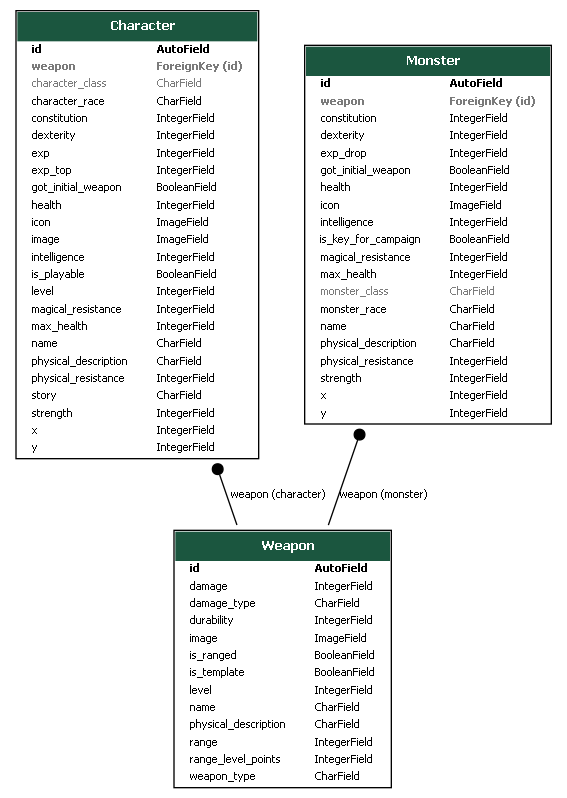
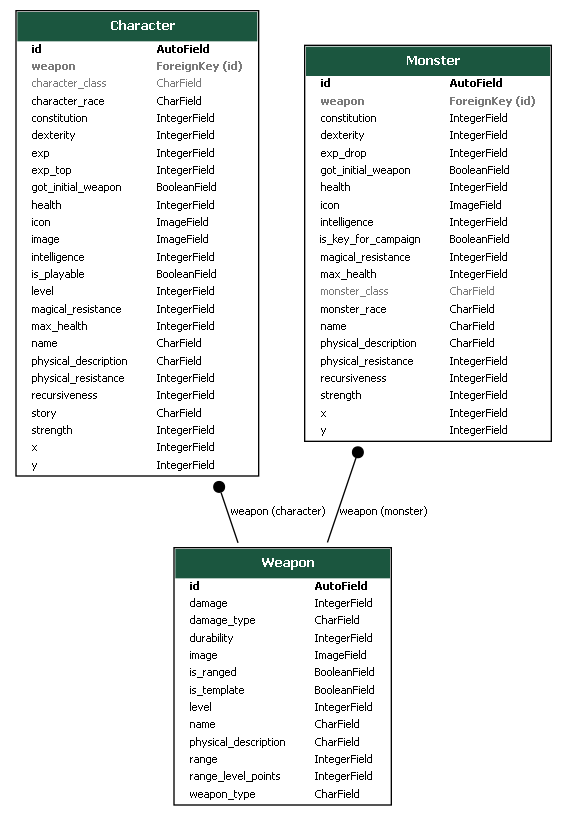
Full combat system made in functions.py

Changed region(s): [[0.03, 0.0, 0.9894, 0.9925], [0.9295, 0.0902, 0.9594, 0.1203]]

diff --git a/DnD_AI/functions.py b/DnD_AI/functions.py
@@ -6,24 +6,138 @@ def roll_dice():
     return randint(1, 20)
 
 
-# no está listo
-def attack(attacker:Character|Monster, objective:Character|Monster, dice:int):
+# BEEEEEEEEEEEEEEEEEEEEEEEEEEEEEEEETA, Just simulating btw
+def level_up_option(level:int) -> str:
+    '''# THIS OPTION WILL BE MADE IN FRONT BY COCK, PROBABLY, I'M JUST SIMULATING IT. CHANGE FULL_COMBAT() WHEN IT'S DONE. 
+    
+    just returns 'stats' or 'weapon' '''
+
+    menu = f'''Duuuuude, wha du u waaaant, u are now level {level} omggg 
+    1. Subir las stats bro
+    2. Tirar facha modificando mi arma uwu
+
+    -> '''
+    print(menu)
+
+    opcion = input().lower()
+    if opcion not in ['stats', 'weapon']:
+        print('pero qué te pasa ome, mera deforme nea')
+        return level_up_option(level)
+    else:
+        print('waos')
+        return opcion
+
+
+
+def attack(attacker:Character|Monster, objective:Character|Monster, attacker_dice:int = roll_dice()) -> dict:
+    '''### The attack function will calculate the result of an attack from an attacker to an objective. Any of them can be a character or a monster\n
+    The attack will be calculated based on the attacker's attack stats, weapon damage, weapon damage type and the objective's defense. The intensity varies depending on the dice result, the higher the result, the higher the damage.\n
+    If the dice result is 20, the attack will be a CRITICAL HIT, doubling the damage. \n
+    returns a dictionary with the attack, the damage dealt, a boolean indicating if the objective was killed and a boolean indicating if the hit was critic.'''
+
+
+    # Each plus point in the stats will increase the damage by 10% of the base damage
     if attacker.weapon.damage_type == 'Physical':
-        attack = attacker.strength + attacker.weapon.damage
+        attack = attacker.weapon.damage + int((attacker.weapon.damage*0.1)*attacker.strength)
         defense = objective.physical_resistance
     elif attacker.weapon.damage_type == 'Magical': 
-        attack = attacker.intelligence + attacker.weapon.damage
+        attack = attacker.weapon.damage + int((attacker.weapon.damage*0.1)*attacker.intelligence)
         defense = objective.magical_resistance
-    else:
-        attack = attacker.intelligence + attacker.weapon.damage
+    else: # the attacker damage will be calculated as item damage
+        attack = attacker.weapon.damage + int((attacker.weapon.damage*0.1)*attacker.recursiveness)
         defense = objective.constitution
+
+    # The damage will be calculated as the difference between the attack and the defense, multiplied by the dice result
+    # The dice result will be used to calculate the damage, the higher the result, the higher the damage
+    # a dice result of 20 will double the damage, that's a CRITICAL HIT!
+    damage_dealt = int((attack - defense)*(attacker_dice/20)) if attacker_dice != 20 else (attack - defense)*2
+    objective.health -= damage_dealt
+
+    objective_killed = False
+    if objective.health < 0:
+        objective.kill()
+        objective_killed = True
+
+    was_critical_hit = True if attacker_dice == 20 else False
+
+    return {'attack': attack, 'damage_dealt': damage_dealt, 'objective_killed': objective_killed, 'was_critical_hit': was_critical_hit}
     
 
+# The combat function will calculate the result of a combat_turn between a player and a monster
+def combat_turn(player:Character, monster:Monster, player_dice:int = roll_dice(), monster_dice:int = roll_dice()) -> dict[dict, dict]:
+    '''### The combat function will calculate the result of a combat between a player and a monster, both attacking (if the first attacked doesn't dies).\n
+    The one with the highest dexterity will attack first. If the dexterity is the same, the dice result will be used to determine the first attack. If they're also the same, the order will be random. \n
+    Calls to the attack function to calculate the damage dealt by the player and the monster. \n
+    Returns a dictionary with player and monster dead status, and also two dictionaries: one for the player's attack results and another for the monster's attack results. \n
 
-# no está listo
-def combat(character:Character, monster:Monster, character_dice:int, monster_dice:int = roll_dice()) -> None:
-    monster_attack = monster.strength
-    if character.dexterity > monster.dexterity:
+    Keys valid for the returned dictionary:
+    - 'player_died'
+    - 'monster_died'
+    - 'player_result'
+    - 'monster_result'\n
     
-        monster_attack = monster.strength
-        character.health -= 1
+    Keys valid for 'player_results' and 'monster_results' dictionaries: 
+    - 'attack'
+    - 'damage_dealt'
+    - 'objective_killed'
+    - 'was_critical_hit'\n
+    '''
+
+    if player.dexterity > monster.dexterity:
+        first = 'player'
+    elif player.dexterity < monster.dexterity:
+        first = 'monster'
+    else:  # they have the same dexterity
+        if player_dice > monster_dice:
+            first = 'player'
+        elif player_dice < monster_dice:
+            first = 'monster'
+        else: # damn, they have the same dexterity and the same dice result XD, let's make it random
+            first = 'player' if randint(0, 1) == 1 else 'monster'
+
+    player_died, monster_died = False, False
+    if first == 'player':
+        player_result = attack(player, monster, player_dice)
+        monster_died = player_result['objective_killed']
+        if not monster_died:
+            monster_result = attack(monster, player, monster_dice)
+            player_died = monster_result['objective_killed']
+    else:
+        monster_result = attack(monster, player, monster_dice)
+        player_died = monster_result['objective_killed']
+        if not player_died:
+            player_result = attack(player, monster, player_dice)
+            monster_died = player_result['objective_killed']
+
+    return {'player_died': player_died, 'monster_died': monster_died, 'player_result': player_result, 'monster_result': monster_result}
+
+
+# The full_combat function will calculate the result of a full combat between a player and a monster
+# They will continue until someone dies
+def full_combat(player:Character, monster:Monster):
+    '''### The full_combat function will calculate the result of a full combat between a player and a monster. They will continue until someone dies.\n
+    Calls to the combat_turn function to calculate the result of each turn. \n
+    Returns a dictionary with the player and monster dead status, and also a list with the results of each turn. \n
+    The list will contain dictionaries with the results of each turn, with the same keys as the combat_turn function. \n
+    '''
+
+    combat_results = []
+    player_died, monster_died = False, False
+    while not player_died and not monster_died:
+        turn_result = combat_turn(player, monster)
+        player_died = turn_result['player_died']
+        monster_died = turn_result['monster_died']
+        combat_results.append(turn_result)
+
+
+        
+        if player.exp > player.exp_top:
+            # ---------------------------------------- COCK, MODIFY THIS WHEN YOU'RE DONE WITH THE LEVEL_UP OPTION MENU
+            option = level_up_option()
+            if option == 'stats':
+                player.level_up_stat()
+            if option == 'weapon':
+                player.level_up_weapon()
+
+
+    return {'player_died': player_died, 'monster_died': monster_died, 'combat_results': combat_results}

diff --git a/DnD_AI/models.py b/DnD_AI/models.py
@@ -174,7 +174,9 @@ class Character(models.Model):
     y       = models.IntegerField(default=0)
     icon    = models.ImageField(upload_to="entity/icons/", default='entity/icons/default.png')
 
-    def level_up(self, stat:str = 'max_health'):
+    def level_up_stat(self, stat:str = 'max_health'):
+        ''' levels up the character, you can choose the stat to increace \n
+        returns if was succesful '''
         stat = stat.lower().replace('_', ' ')
         if stat in ['max health', 'maxhealth', 'health', 'hp']:
             self.max_health += 10
@@ -200,6 +202,10 @@ class Character(models.Model):
         
 
     def level_up_weapon(self, new_name:str = None, stat:str = 'damage'):
+        ''' levels up the weapon of the character, the damage will be increaced if you choose it. \n
+        if is a ranged weapon, you can also level up the range, but with a five points accumulation system. \n
+        returns the leveled up weapon, but now the character has it equipped  .
+        '''
         leveled_weapon = copy.deepcopy(self.weapon)  # I create a copy of that weapon
 
         leveled_weapon.is_template = False  # Change is_template to false, now it's a unique weapon
@@ -227,14 +233,25 @@ class Character(models.Model):
             leveled_weapon.name = new_name
         
         leveled_weapon.save()
-        self.weapon = leveled_weapon
+        self.weapon = leveled_weapon                # now the character has the leveled up weapon equipped
+        self.level      += 1                        # the level increaces one point
+        self.exp        -= self.exp_top             # the experience reduces the top passed
+        self.exp_top    += int(self.exp_top*0.2)    # the top increaces by a function
+        self.health     = self.max_health           # the health recovers to the max
         self.save()
 
         return leveled_weapon  # if you want to easily show the weapon or something like that
     
     def disarm(self) -> bool:
+        ''' disarms the character, his weapon will be "Bare hands" \n
+        returns if was succesful '''
         self.weapon = get_bare_hands()
         self.save()
+        return True  # if was succesful
+    
+    def kill(self) -> bool:
+        ''' deletes the character '''
+        self.delete()
         return True  # if was succesful
 
     def save(self, *args, **kwargs):
@@ -295,7 +312,7 @@ class Monster(models.Model):
 
     # Stats
     max_health      = models.IntegerField(default=100)  # health limit
-    health          = models.IntegerField(default=100)  # if reaches 0, the character dies
+    health          = models.IntegerField(default=100)  # if reaches 0, the monster dies
     strength        = models.IntegerField(default=10)   # plus to physical attacks
     intelligence    = models.IntegerField(default=10)   # plus to magical attacks
     recursiveness   = models.IntegerField(default=10)   # plus to item attacks
@@ -311,9 +328,18 @@ class Monster(models.Model):
     icon    = models.ImageField(upload_to="entity/icons/", default='entity/icons/default.png')
 
     def disarm(self) -> bool:
+        ''' disarms the monster, his weapon will be "Bare hands"\n
+        returns if was succesful '''
         self.weapon = get_bare_hands()
         self.save()
         return True  # if was succesful
+    
+    def kill(self) -> tuple[bool, bool]:
+        ''' deletes the monster \n
+        returns a tuple. (if was succesful , if was a key monster)'''
+        was_key = True if self.is_key_for_campaign else False
+        self.delete()
+        return True, was_key  
     
     def save(self, *args, **kwargs):
         if not self.monster_class:
